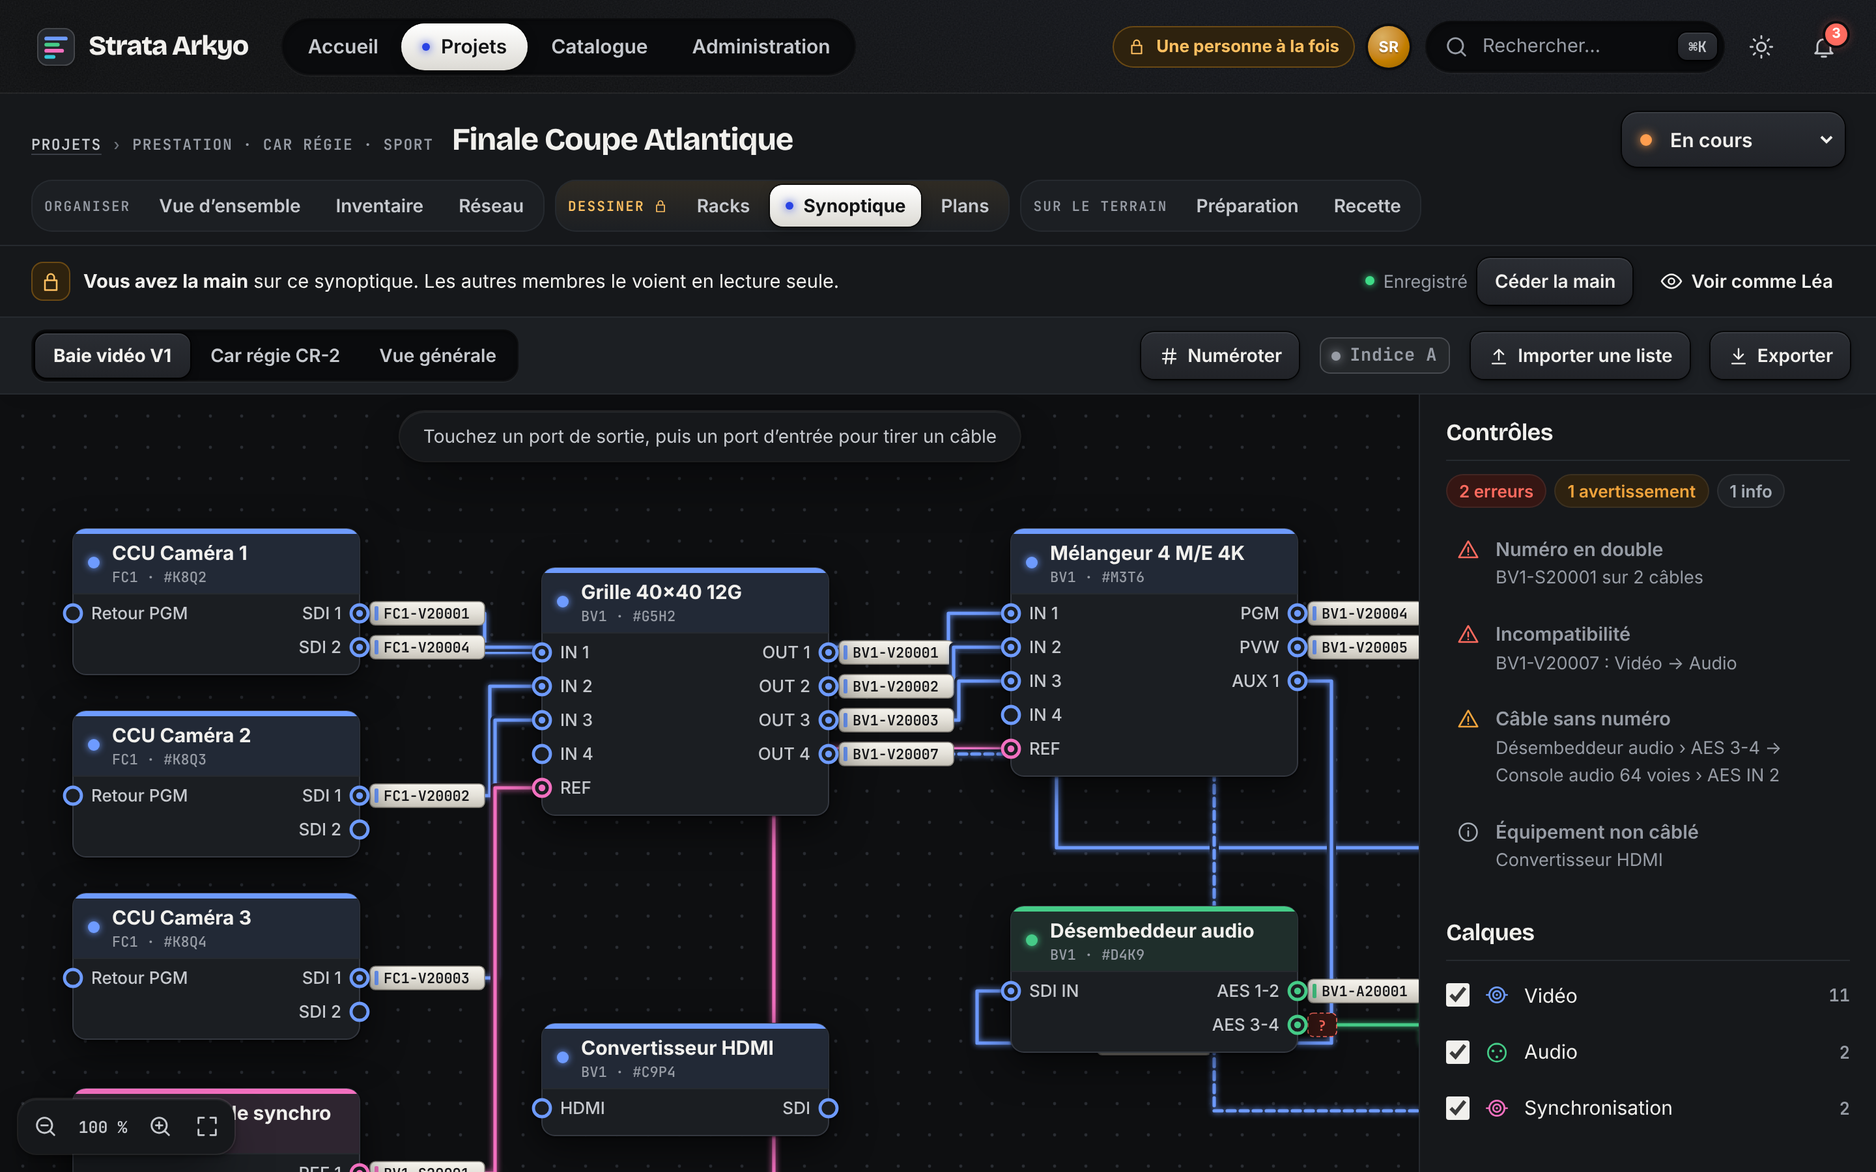
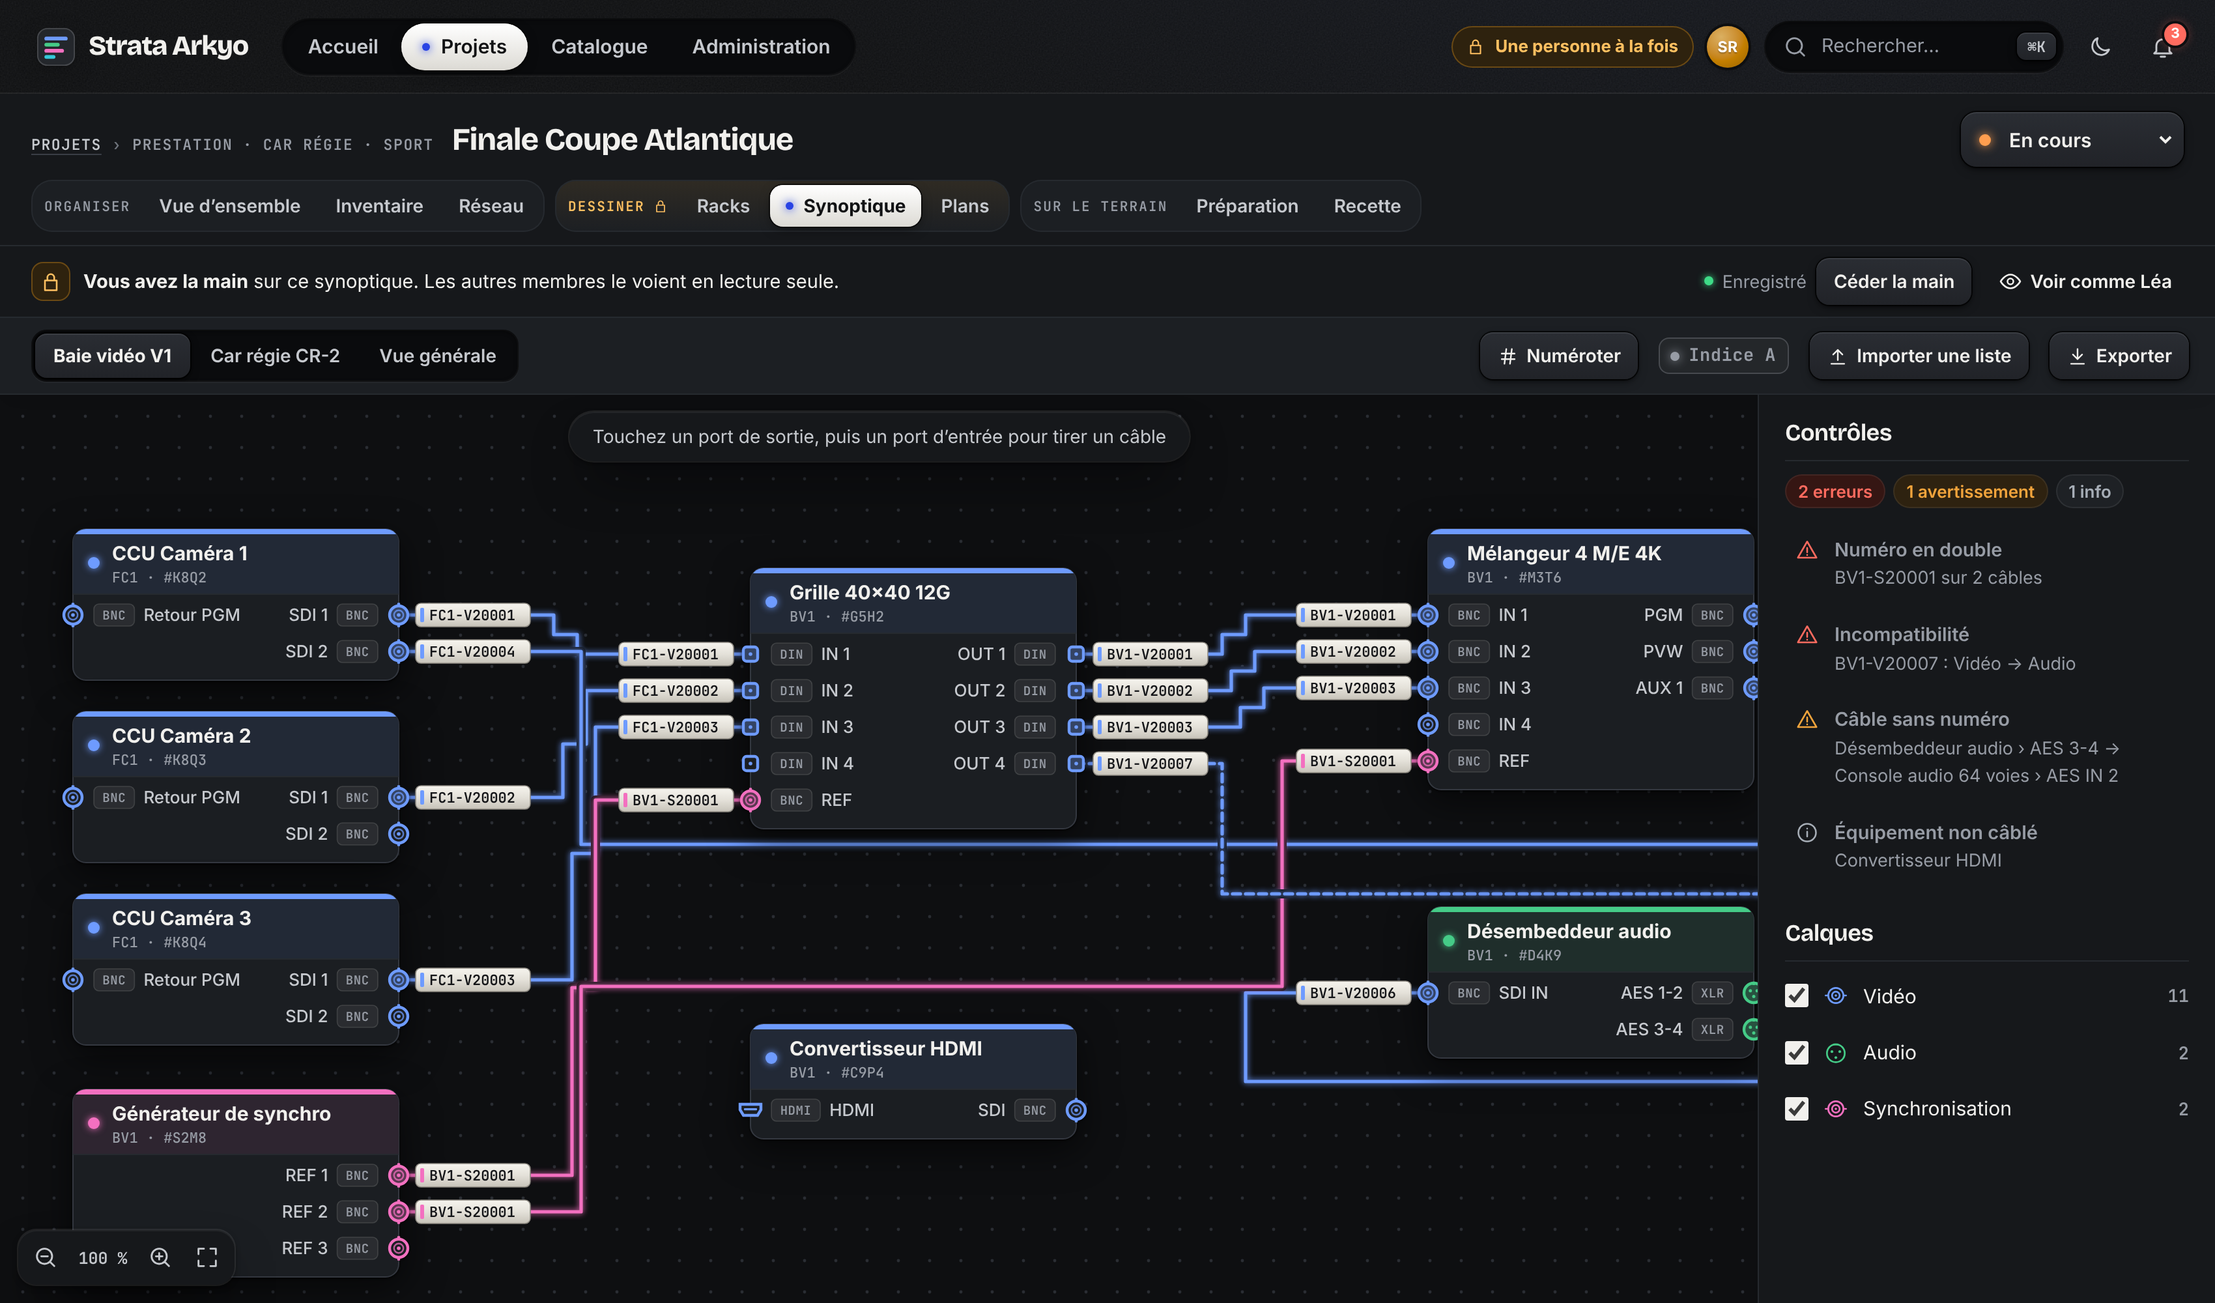
Maquette v2, synoptique : numéro aux deux extrémités, connecteurs visibles, câbles qui contournent les équipements
- Étiquette du numéro posée près de chaque fiche, au-dessus de tous les câbles
- Chaque port porte son connecteur (BNC, HD-BNC, DIN 1.0/2.3, XLR, HDMI, RJ45) :
  dessin sur le bord de l'équipement et pastille de nom
- Fiche du câble : connecteur et genre à chaque bout, câble à confectionner,
  alerte si les deux bouts diffèrent
- Tracé par couloirs entre colonnes : plus aucun câble ne traverse un équipement

Claude-Session: https://claude.ai/code/session_01YNigYAgHueuAavtANGQKFy

diff --git a/maquette/v2/index.html b/maquette/v2/index.html
@@ -762,13 +762,24 @@ select.input option{color:var(--fg);background:var(--surface)}
 .node.hl.info .box{stroke:var(--info)}
 .port .ph{fill:transparent;cursor:crosshair}
 .port .pr{fill:var(--node-bg);stroke:var(--c);stroke-width:2.4;cursor:crosshair}
+.port .cg-shell{fill:var(--node-bg);stroke:var(--c);stroke-width:2.2;cursor:crosshair}
+.port .cg-ring{fill:none;stroke:var(--c);stroke-width:1.2;opacity:.75;pointer-events:none}
+.port .cg-pin{fill:var(--c);pointer-events:none}
+.port .cg-key{fill:var(--c);pointer-events:none}
+.port:hover .cg-shell{fill:color-mix(in srgb,var(--c) 22%,var(--node-bg))}
+.port.used .cg-shell{fill:color-mix(in srgb,var(--c) 30%,var(--node-bg))}
+.port.armed .cg-shell{fill:var(--accent);stroke:var(--accent);stroke-width:3}
+.port.armed .cg-pin,.port.armed .cg-key{fill:#fff}
+.ro .port .cg-shell{cursor:default}
+.port .cchip rect{fill:var(--chip-bg,color-mix(in srgb,var(--fg) 7%,transparent));stroke:color-mix(in srgb,var(--fg) 14%,transparent);stroke-width:.8}
+.port .cchip text{font:600 9.5px var(--mono);letter-spacing:.03em;fill:var(--fg-3);pointer-events:none}
 .port .pc{fill:var(--c);opacity:0;transition:opacity .15s;pointer-events:none}
 .port:hover .pc,.port.used .pc{opacity:1}
 .port:hover .pr{fill:color-mix(in srgb,var(--c) 18%,var(--node-bg))}
 .port.armed .pr{fill:var(--accent);stroke:var(--accent);stroke-width:3}
 .port.armed .pc{fill:#fff;opacity:1}
 .ro .port .pr,.ro .port .ph{cursor:default}
-.port text{font:500 13px var(--font);fill:var(--fg-2);pointer-events:none}
+.port text.pn{font:500 13px var(--font);fill:var(--fg-2);pointer-events:none}
 .cable{color:var(--c)}
 .cable .case{fill:none;stroke:var(--canvas);stroke-width:7;stroke-linejoin:round;stroke-linecap:round}
 .cable .vis{fill:none;stroke:var(--c);stroke-width:2.6;stroke-linejoin:round;stroke-linecap:round;filter:var(--glow)}
@@ -804,6 +815,7 @@ select.input option{color:var(--fg);background:var(--surface)}
 .ends{display:flex;flex-direction:column;gap:8px;font-size:14.5px}
 .ends div{display:grid;grid-template-columns:44px minmax(0,1fr);gap:8px}
 .ends span{color:var(--fg-3)}
+.ends span.small{grid-column:2;font-size:12.5px;margin-top:-4px}
 
 /* ---------- Recette ---------- */
 .rc-head{display:grid;grid-template-columns:auto minmax(0,1fr);gap:40px;align-items:center}
@@ -1662,17 +1674,17 @@ const CONT={
 const CONTNAME={FC1:'Flight-case caméras',BV1:'Baie vidéo V1',COM:'Cabine commentateurs'};
 
 const SYN={k:1,x:0,y:0,sel:null,pend:null,hl:null,hidden:new Set(),nextId:100,fitted:false,nodes:[
- {id:'cam1',nom:'CCU Caméra 1',cont:'FC1',rep:'#K8Q2',f:'v',x:40,y:40,ins:[['Retour PGM','v']],outs:[['SDI 1','v'],['SDI 2','v']]},
- {id:'cam2',nom:'CCU Caméra 2',cont:'FC1',rep:'#K8Q3',f:'v',x:40,y:180,ins:[['Retour PGM','v']],outs:[['SDI 1','v'],['SDI 2','v']]},
- {id:'cam3',nom:'CCU Caméra 3',cont:'FC1',rep:'#K8Q4',f:'v',x:40,y:320,ins:[['Retour PGM','v']],outs:[['SDI 1','v'],['SDI 2','v']]},
- {id:'sync',nom:'Générateur de synchro',cont:'BV1',rep:'#S2M8',f:'s',x:40,y:470,ins:[],outs:[['REF 1','s'],['REF 2','s'],['REF 3','s']]},
- {id:'grille',nom:'Grille 40×40 12G',cont:'BV1',rep:'#G5H2',f:'v',x:400,y:70,ins:[['IN 1','v'],['IN 2','v'],['IN 3','v'],['IN 4','v'],['REF','s']],outs:[['OUT 1','v'],['OUT 2','v'],['OUT 3','v'],['OUT 4','v']]},
- {id:'conv',nom:'Convertisseur HDMI',cont:'BV1',rep:'#C9P4',f:'v',x:400,y:420,ins:[['HDMI','v']],outs:[['SDI','v']]},
- {id:'mel',nom:'Mélangeur 4 M/E 4K',cont:'BV1',rep:'#M3T6',f:'v',x:760,y:40,ins:[['IN 1','v'],['IN 2','v'],['IN 3','v'],['IN 4','v'],['REF','s']],outs:[['PGM','v'],['PVW','v'],['AUX 1','v']]},
- {id:'deemb',nom:'Désembeddeur audio',cont:'BV1',rep:'#D4K9',f:'a',x:760,y:330,ins:[['SDI IN','v']],outs:[['AES 1-2','a'],['AES 3-4','a']]},
- {id:'mv',nom:'Multiviewer 16 entrées',cont:'BV1',rep:'#V8N3',f:'v',x:1110,y:40,ins:[['IN 1','v'],['IN 2','v'],['IN 3','v'],['IN 4','v']],outs:[]},
- {id:'rec',nom:'Enregistreur 1U SSD',cont:'BV1',rep:'non placé',f:'v',x:1110,y:220,ins:[['SDI IN','v']],outs:[['SDI OUT','v']]},
- {id:'cons',nom:'Console audio 64 voies',cont:'COM',rep:'libre',f:'a',x:1110,y:370,ins:[['AES IN 1','a'],['AES IN 2','a'],['AES IN 3','a']],outs:[]},
+ {id:'cam1',nom:'CCU Caméra 1',cont:'FC1',rep:'#K8Q2',f:'v',x:40,y:40,ins:[['Retour PGM','v','bnc']],outs:[['SDI 1','v','bnc'],['SDI 2','v','bnc']]},
+ {id:'cam2',nom:'CCU Caméra 2',cont:'FC1',rep:'#K8Q3',f:'v',x:40,y:180,ins:[['Retour PGM','v','bnc']],outs:[['SDI 1','v','bnc'],['SDI 2','v','bnc']]},
+ {id:'cam3',nom:'CCU Caméra 3',cont:'FC1',rep:'#K8Q4',f:'v',x:40,y:320,ins:[['Retour PGM','v','bnc']],outs:[['SDI 1','v','bnc'],['SDI 2','v','bnc']]},
+ {id:'sync',nom:'Générateur de synchro',cont:'BV1',rep:'#S2M8',f:'s',x:40,y:470,ins:[],outs:[['REF 1','s','bnc'],['REF 2','s','bnc'],['REF 3','s','bnc']]},
+ {id:'grille',nom:'Grille 40×40 12G',cont:'BV1',rep:'#G5H2',f:'v',x:560,y:70,ins:[['IN 1','v','din'],['IN 2','v','din'],['IN 3','v','din'],['IN 4','v','din'],['REF','s','bnc']],outs:[['OUT 1','v','din'],['OUT 2','v','din'],['OUT 3','v','din'],['OUT 4','v','din']]},
+ {id:'conv',nom:'Convertisseur HDMI',cont:'BV1',rep:'#C9P4',f:'v',x:560,y:420,ins:[['HDMI','v','hdmi']],outs:[['SDI','v','bnc']]},
+ {id:'mel',nom:'Mélangeur 4 M/E 4K',cont:'BV1',rep:'#M3T6',f:'v',x:1080,y:40,ins:[['IN 1','v','bnc'],['IN 2','v','bnc'],['IN 3','v','bnc'],['IN 4','v','bnc'],['REF','s','bnc']],outs:[['PGM','v','bnc'],['PVW','v','bnc'],['AUX 1','v','bnc']]},
+ {id:'deemb',nom:'Désembeddeur audio',cont:'BV1',rep:'#D4K9',f:'a',x:1080,y:330,ins:[['SDI IN','v','bnc']],outs:[['AES 1-2','a','xlr3'],['AES 3-4','a','xlr3']]},
+ {id:'mv',nom:'Multiviewer 16 entrées',cont:'BV1',rep:'#V8N3',f:'v',x:1600,y:40,ins:[['IN 1','v','hdbnc'],['IN 2','v','hdbnc'],['IN 3','v','hdbnc'],['IN 4','v','hdbnc']],outs:[]},
+ {id:'rec',nom:'Enregistreur 1U SSD',cont:'BV1',rep:'non placé',f:'v',x:1600,y:220,ins:[['SDI IN','v','bnc']],outs:[['SDI OUT','v','bnc']]},
+ {id:'cons',nom:'Console audio 64 voies',cont:'COM',rep:'libre',f:'a',x:1600,y:370,ins:[['AES IN 1','a','xlr3'],['AES IN 2','a','xlr3'],['AES IN 3','a','xlr3']],outs:[]},
 ],cables:[]};
 [
  ['cam1','o',0,'grille','i',0,'FC1-V20001'],['cam2','o',0,'grille','i',1,'FC1-V20002'],['cam3','o',0,'grille','i',2,'FC1-V20003'],['cam1','o',1,'rec','i',0,'FC1-V20004'],
@@ -2080,7 +2092,27 @@ function mountRacks(){
 }
 
 /* ================= Synoptique ================= */
-const NW=220,HH=50,PS=26;
+const NW=250,HH=50,PS=28;
+/* Connecteurs de châssis. Embase femelle sauf XLR en sortie (mâle), comme sur le matériel. */
+const PCON={bnc:{n:'BNC'},hdbnc:{n:'HD-BNC'},din:{n:'DIN 1.0/2.3',s:'DIN'},xlr3:{n:'XLR 3',s:'XLR'},hdmi:{n:'HDMI'},rj45:{n:'RJ45'}};
+const pConn=p=>portOf(p)[2]||(portSig(p)==='a'?'xlr3':'bnc');
+const chassisG=p=>pConn(p)==='xlr3'&&p[1]==='o'?'M':'F';
+const plugG=p=>pConn(p)==='hdmi'?'M':chassisG(p)==='F'?'M':'F';
+const plugName=p=>`${PCON[pConn(p)].n} ${plugG(p)}`;
+/* Dessin du connecteur à l'emplacement du port (x, y) */
+function connGlyph(k,x,y){
+ switch(k){
+  case 'xlr3':return `<circle class="cg-shell" cx="${x}" cy="${y}" r="7.5"/><circle class="cg-pin" cx="${x-2.6}" cy="${y-1.6}" r="1.25"/><circle class="cg-pin" cx="${x+2.6}" cy="${y-1.6}" r="1.25"/><circle class="cg-pin" cx="${x}" cy="${y+2.8}" r="1.25"/><rect class="cg-key" x="${x-1.2}" y="${y-8.6}" width="2.4" height="2.6" rx=".6"/>`;
+  case 'hdmi':return `<path class="cg-shell" d="M${x-8} ${y-4.5}h16v4.2l-2.6 4.3h-10.8l-2.6-4.3z"/><rect class="cg-pin" x="${x-5}" y="${y-1.5}" width="10" height="1.6" rx=".5"/>`;
+  case 'rj45':return `<rect class="cg-shell" x="${x-6.5}" y="${y-6}" width="13" height="11" rx="1.5"/><rect class="cg-key" x="${x-2.5}" y="${y+3}" width="5" height="3.4"/>`;
+  case 'hdbnc':return `<circle class="cg-shell" cx="${x}" cy="${y}" r="5"/><circle class="cg-pin" cx="${x}" cy="${y}" r="1.4"/><rect class="cg-key" x="${x-1}" y="${y-7}" width="2" height="2.6" rx=".5"/>`;
+  case 'din':return `<rect class="cg-shell" x="${x-5.5}" y="${y-5.5}" width="11" height="11" rx="2.5"/><circle class="cg-pin" cx="${x}" cy="${y}" r="1.4"/>`;
+  default:return `<circle class="cg-shell" cx="${x}" cy="${y}" r="7"/><circle class="cg-ring" cx="${x}" cy="${y}" r="3.6"/><circle class="cg-pin" cx="${x}" cy="${y}" r="1.4"/><rect class="cg-key" x="${x-1.1}" y="${y-9.4}" width="2.2" height="3" rx=".6"/><rect class="cg-key" x="${x-1.1}" y="${y+6.4}" width="2.2" height="3" rx=".6"/>`;
+ }
+}
+/* Étiquette de numéro façon gaine thermorétractable, posée près d'une extrémité */
+const TAGW=c=>c.num?c.num.length*6.9+19:22;
+function tagSvg(c,x,y){return c.num?`<g class="lbl" transform="translate(${x},${y-9})"><rect class="tag" width="${TAGW(c)}" height="18" rx="4"/><rect class="band" x="3.5" y="3.5" width="3" height="11" rx="1"/><text x="10.5" y="13">${c.num}</text></g>`:`<g class="lbl none" transform="translate(${x},${y-9})"><rect class="tag" width="22" height="18" rx="4"/><text x="7.5" y="13.5">?</text></g>`}
 const node=id=>SYN.nodes.find(n=>n.id===id);
 const nodeH=n=>HH+Math.max(n.ins.length,n.outs.length,1)*PS+10;
 const portOf=p=>{const n=node(p[0]);return (p[1]==='o'?n.outs:n.ins)[p[2]]};
@@ -2088,11 +2120,35 @@ const portSig=p=>portOf(p)[1];
 const pPos=p=>{const n=node(p[0]);return[p[1]==='o'?n.x+NW:n.x,n.y+HH+p[2]*PS+PS/2+2]};
 const pName=p=>`${node(p[0]).nom} › ${portOf(p)[0]}`;
 const same=(a,b)=>a[0]===b[0]&&a[1]===b[1]&&a[2]===b[2];
+/* Tracé orthogonal qui contourne les équipements. Chaque extrémité garde un segment droit
+   assez long pour porter son étiquette ; les verticales passent dans les couloirs entre colonnes. */
+const TAG_GAP=13;
+function nodeBoxes(){return SYN.nodes.map(n=>[n.x-6,n.y-8,n.x+NW+6,n.y+nodeH(n)+8])}
+function laneFree(xa,xb,y,boxes){const a=Math.min(xa,xb),b=Math.max(xa,xb);return !boxes.some(([x0,y0,x1,y1])=>y>y0&&y<y1&&b>x0&&a<x1)}
+function colFree(x,ya,yb,boxes){const a=Math.min(ya,yb),b=Math.max(ya,yb);return !boxes.some(([x0,y0,x1,y1])=>x>x0&&x<x1&&b>y0&&a<y1)}
+function findLane(xa,xb,y,boxes,dir=0){
+ if(laneFree(xa,xb,y,boxes))return y;
+ for(let k=1;k<80;k++){for(const sg of dir?[dir]:[1,-1]){const yy=y+sg*k*12;if(laneFree(xa,xb,yy,boxes))return yy}}
+ return y;
+}
 function cPath(c){
- const[x1,y1]=pPos(c.a),[x2,y2]=pPos(c.b);
- if(c.a[1]==='o'&&c.b[1]==='i'&&x2>x1+50){const mx=Math.round(x1+Math.max(100,(x2-x1)*.62)+((c.id%5)-2)*4);return{d:`M${x1} ${y1}H${mx}V${y2}H${x2}`,lx:x1+8,ly:y1,left:true}}
- const d1=c.a[1]==='o'?26:-26,d2=c.b[1]==='i'?-26:26,ym=Math.max(y1,y2)+28+(c.id%4)*6;
- return{d:`M${x1} ${y1}H${x1+d1}V${ym}H${x2+d2}V${y2}H${x2}`,lx:(x1+d1+x2+d2)/2,ly:ym};
+ const[x1,y1]=pPos(c.a),[x2,y2]=pPos(c.b),w=TAGW(c),run=w+TAG_GAP*2,boxes=nodeBoxes(),j=((c.id%5)-2)*7;
+ const tagAt=(p,x,y)=>p[1]==='o'?[x+TAG_GAP,y]:[x-TAG_GAP-w,y];
+ const t1=tagAt(c.a,x1,y1),t2=tagAt(c.b,x2,y2);
+ if(c.a[1]==='o'&&c.b[1]==='i'&&x2-x1>run*2+20){
+  // Couloir juste après la source et juste avant la destination
+  const m1=x1+run+12+j,m2=x2-run-12+j;
+  if(m2-m1<40||(laneFree(m1,m2,y2,boxes)&&colFree(m1,y1,y2,boxes)&&laneFree(x1,m1,y1,boxes))){
+   const mx=Math.round(m2-m1<40?(m1+m2)/2:m2>m1+60&&colFree(m2,y1,y2,boxes)&&laneFree(x1,m2,y1,boxes)?m2:m1);
+   if(colFree(mx,y1,y2,boxes)&&laneFree(x1,mx,y1,boxes)&&laneFree(mx,x2,y2,boxes))return{d:`M${x1} ${y1}H${mx}V${y2}H${x2}`,t1,t2};
+  }
+  const ly=findLane(m1,m2,(y1+y2)/2,boxes);
+  return{d:`M${x1} ${y1}H${m1}V${ly}H${m2}V${y2}H${x2}`,t1,t2};
+ }
+ // Retour vers la gauche ou même colonne : on sort, on passe sous les équipements, on revient.
+ const d1=c.a[1]==='o'?run+12+j:-(run+12+j),d2=c.b[1]==='i'?-(run+12-j):run+12-j;
+ const ym=findLane(x1+d1,x2+d2,Math.max(y1,y2)+30+(c.id%4)*7,boxes,1);
+ return{d:`M${x1} ${y1}H${x1+d1}V${ym}H${x2+d2}V${y2}H${x2}`,t1,t2};
 }
 function validate(){
  const out=[],by={};
@@ -2106,19 +2162,26 @@ function validate(){
 function synSvg(){
  const used=new Set();SYN.cables.forEach(c=>{used.add(c.a.join(':'));used.add(c.b.join(':'))});
  const hl=SYN.hl||{};
+ const tags=[];
  const cab=SYN.cables.map(c=>{
-  const s=portSig(c.a),{d,lx,ly,left}=cPath(c),sel=SYN.sel&&SYN.sel.t==='c'&&SYN.sel.id===c.id,h=(hl.cables||[]).includes(c.id);
-  const lw=c.num?c.num.length*6.9+19:22,tx=left?lx:lx-lw/2;
-  return `<g class="cable ${sel?'sel':''} ${h?'hl':''} ${SYN.hidden.has(s)?'off':''} ${portSig(c.a)!==portSig(c.b)?'warnc':''}" data-cable="${c.id}" style="--c:${sigc(s)}"><path class="case" d="${d}"/><path class="vis" d="${d}"/><path class="hit" d="${d}"/>${c.num?`<g class="lbl" transform="translate(${tx},${ly-9})"><rect class="tag" width="${lw}" height="18" rx="4"/><rect class="band" x="3.5" y="3.5" width="3" height="11" rx="1"/><text x="10.5" y="13">${c.num}</text></g>`:`<g class="lbl none" transform="translate(${tx},${ly-9})"><rect class="tag" width="22" height="18" rx="4"/><text x="7.5" y="13.5">?</text></g>`}</g>`;
+  const s=portSig(c.a),{d,t1,t2}=cPath(c),sel=SYN.sel&&SYN.sel.t==='c'&&SYN.sel.id===c.id,h=(hl.cables||[]).includes(c.id);
+  const cls=`cable ${sel?'sel':''} ${h?'hl':''} ${SYN.hidden.has(s)?'off':''} ${portSig(c.a)!==portSig(c.b)?'warnc':''}`,tip=`<title>${c.num||'Sans numéro'} · ${plugName(c.a)} ↔ ${plugName(c.b)}</title>`;
+  tags.push(`<g class="${cls}" data-cable="${c.id}" style="--c:${sigc(s)}">${tip}${tagSvg(c,t1[0],t1[1])}${tagSvg(c,t2[0],t2[1])}</g>`);
+  return `<g class="${cls}" data-cable="${c.id}" style="--c:${sigc(s)}">${tip}<path class="case" d="${d}"/><path class="vis" d="${d}"/><path class="hit" d="${d}"/></g>`;
  }).join('');
  const nodes=SYN.nodes.map(n=>{
   const h=nodeH(n),sel=SYN.sel&&SYN.sel.t==='n'&&SYN.sel.id===n.id,hn=(hl.nodes||[]).includes(n.id);
   let s=`<g class="node ${sel?'sel':''} ${hn?'hl '+(hl.sev||''):''}" data-node="${n.id}" transform="translate(${n.x},${n.y})" style="--c:${sigc(n.f)}"><rect class="box" width="${NW}" height="${h}" rx="10"/><path class="hdr" d="M0 10a10 10 0 0 1 10-10h${NW-20}a10 10 0 0 1 10 10v${HH-10}H0z"/><rect class="band" width="${NW}" height="4" clip-path="url(#nclip)"/><line class="sep" x1="0" x2="${NW}" y1="${HH}" y2="${HH}"/><circle class="nled" cx="16" cy="${HH/2+1}" r="4.5"/><text class="nt" x="30" y="24">${esc(n.nom)}</text><text class="ns" x="30" y="41">${n.cont} · ${esc(n.rep)}</text><rect class="drag" width="${NW}" height="${HH}" fill="transparent"/>`;
-  n.ins.forEach((p,i)=>{const y=HH+i*PS+PS/2+2,k=`${n.id}:i:${i}`;s+=`<g class="port ${used.has(k)?'used':''} ${SYN.pend&&SYN.pend.join(':')===k?'armed':''}" data-port="${k}" style="--c:${sigc(p[1])}"><circle class="ph" cx="0" cy="${y}" r="12"/><circle class="pr" cx="0" cy="${y}" r="6.5"/><circle class="pc" cx="0" cy="${y}" r="2.6"/><text x="14" y="${y+4.5}">${esc(p[0])}</text></g>`});
-  n.outs.forEach((p,i)=>{const y=HH+i*PS+PS/2+2,k=`${n.id}:o:${i}`;s+=`<g class="port ${used.has(k)?'used':''} ${SYN.pend&&SYN.pend.join(':')===k?'armed':''}" data-port="${k}" style="--c:${sigc(p[1])}"><circle class="ph" cx="${NW}" cy="${y}" r="12"/><circle class="pr" cx="${NW}" cy="${y}" r="6.5"/><circle class="pc" cx="${NW}" cy="${y}" r="2.6"/><text x="${NW-14}" y="${y+4.5}" text-anchor="end">${esc(p[0])}</text></g>`});
+  const port=(p,i,dir)=>{
+   const y=HH+i*PS+PS/2+2,k=`${n.id}:${dir}:${i}`,pr=[n.id,dir,i],ck=pConn(pr),cn=PCON[ck],short=cn.s||cn.n,cw=short.length*6.4+12,out=dir==='o',x=out?NW:0;
+   const cx0=out?NW-16-cw:16,tx=out?cx0-7:cx0+cw+7;
+   return `<g class="port conn-${ck} ${used.has(k)?'used':''} ${SYN.pend&&SYN.pend.join(':')===k?'armed':''}" data-port="${k}" style="--c:${sigc(p[1])}"><title>${esc(p[0])} · ${cn.n} ${chassisG(pr)==='F'?'femelle':'mâle'}</title><circle class="ph" cx="${x}" cy="${y}" r="13"/>${connGlyph(ck,x,y)}<g class="cchip"><rect x="${cx0}" y="${y-8.5}" width="${cw}" height="17" rx="4"/><text x="${cx0+cw/2}" y="${y+3.6}" text-anchor="middle">${short}</text></g><text class="pn" x="${tx}" y="${y+4.5}" ${out?'text-anchor="end"':''}>${esc(p[0])}</text></g>`;
+  };
+  n.ins.forEach((p,i)=>{s+=port(p,i,'i')});
+  n.outs.forEach((p,i)=>{s+=port(p,i,'o')});
   return s+'</g>';
  }).join('');
- return `<g class="cables">${cab}</g><g class="nodes">${nodes}</g><path id="preview" d="" />`;
+ return `<g class="cables">${cab}</g><g class="nodes">${nodes}</g><g class="ctags">${tags.join('')}</g><path id="preview" d="" />`;
 }
 function synSide(){
  const v=validate(),c={err:0,warn:0,info:0};v.forEach(x=>c[x.sev]++);
@@ -2129,7 +2192,8 @@ function synSide(){
   const s=portSig(sel.a),[x1,y1]=pPos(sel.a),[x2,y2]=pPos(sel.b);const len=Math.max(.5,Math.ceil(((Math.abs(x2-x1)+Math.abs(y2-y1))/220+.6)*2)/2);
   insp=`<section><h2>Câble</h2><div class="card" style="padding:14px;display:flex;flex-direction:column;gap:12px">
    <div class="field"><label for="cnum">Numéro</label><div class="insp-num"><input class="input" id="cnum" value="${esc(sel.num)}" placeholder="Sans numéro" ${ro}><span class="chip">${cx(s)}${SIG[s].n}</span></div></div>
-   <div class="ends"><div><span>De</span><b>${esc(pName(sel.a))}</b></div><div><span>Vers</span><b>${esc(pName(sel.b))}</b></div></div>
+   <div class="ends"><div><span>De</span><b>${esc(pName(sel.a))}</b><span class="mono small">${PCON[pConn(sel.a)].n} ${chassisG(sel.a)==='F'?'femelle':'mâle'} · fiche ${plugName(sel.a)}</span></div><div><span>Vers</span><b>${esc(pName(sel.b))}</b><span class="mono small">${PCON[pConn(sel.b)].n} ${chassisG(sel.b)==='F'?'femelle':'mâle'} · fiche ${plugName(sel.b)}</span></div></div>
+   <div class="field"><span class="flabel">Câble à confectionner</span><b class="mono">${plugName(sel.a)} ↔ ${plugName(sel.b)}</b>${pConn(sel.a)!==pConn(sel.b)?`<span class="help">Connecteurs différents aux deux bouts : câble mixte, ou adaptateur.</span>`:''}</div>
    <div class="field"><label for="cmodel">Modèle de câble</label><select class="input" id="cmodel" ${ro}>${['','Coax 75 Ω 12G','Coax 75 Ω HD','Paire AES 110 Ω','Cat 6a S/FTP'].map(m=>`<option ${m===sel.model?'selected':''} value="${m}">${m||'À choisir'}</option>`).join('')}</select>${modelHelp(sel)}</div>
    <div class="field"><label for="creal">Longueur réelle (m)</label><input class="input mono" id="creal" type="number" min="0" step="0.5" value="${sel.real??''}" placeholder="À saisir" ${ro}><span class="help">Sert à la commande et à la confection. Estimée : ${nf(len,1)} m.</span></div>
    <dl class="kv"><dt>Longueur estimée</dt><dd>${nf(len,1)} m</dd><dt>Tracé</dt><dd>Orthogonal</dd></dl>
